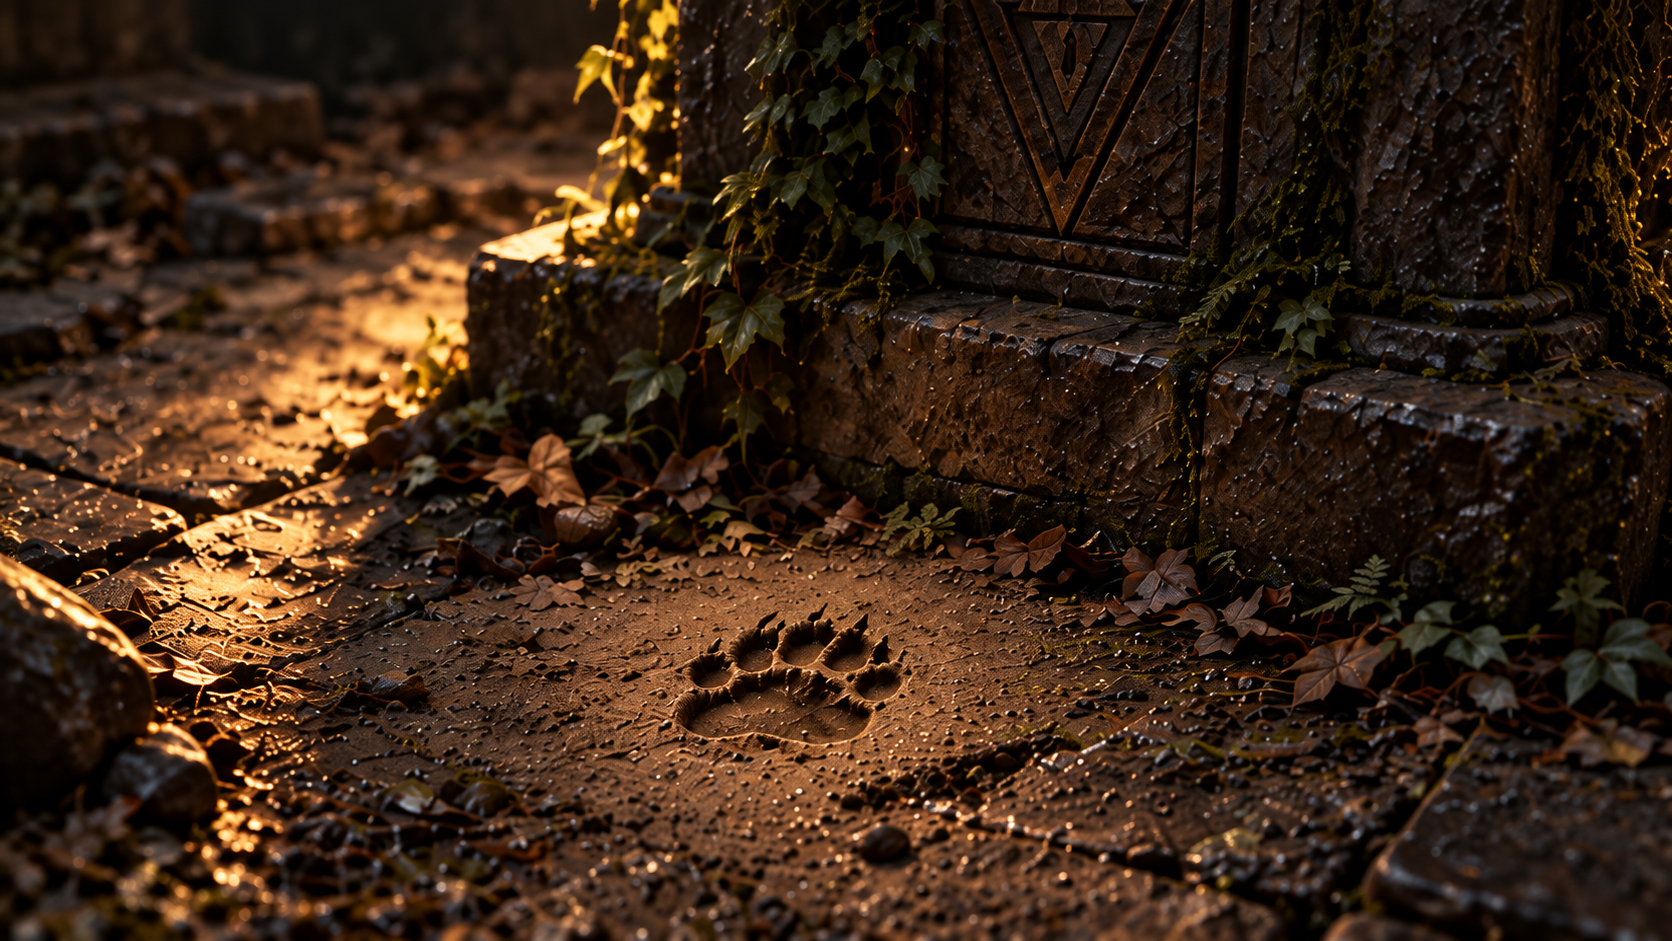
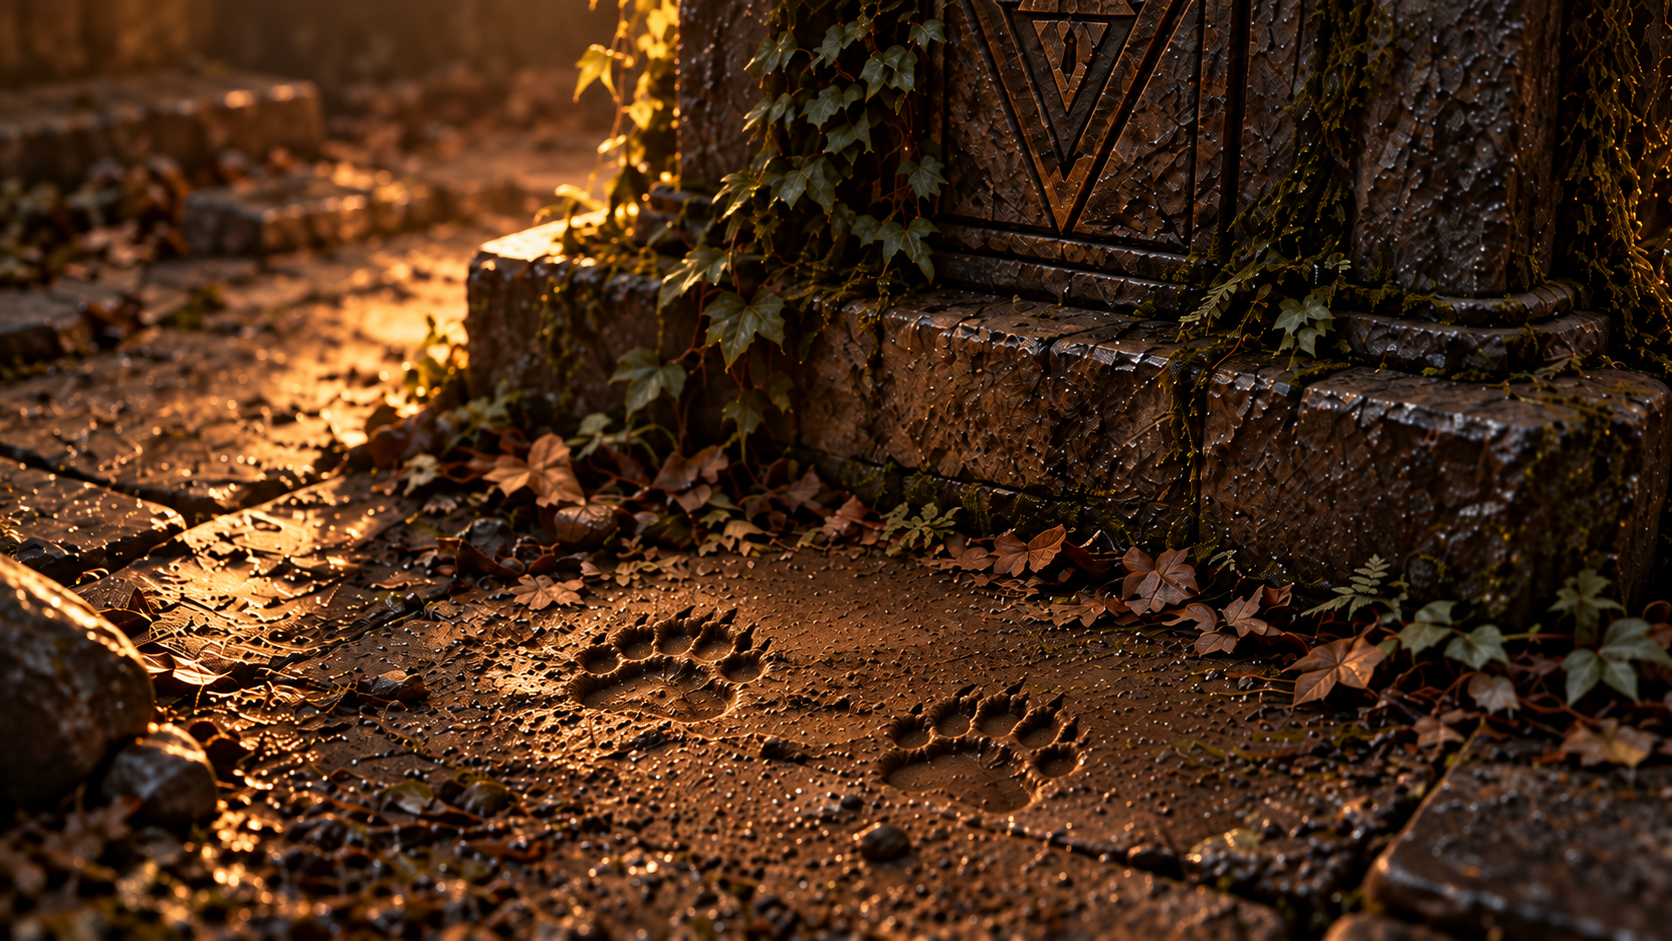
feat(chapter1): fix scene flow

diff --git a/src/data/story/first-chapter.ts b/src/data/story/first-chapter.ts
@@ -62,10 +62,10 @@ export const firstChapter: ChapterData = {
 
     {
       id: "chapter1-footprints-2",
-      background: images.track,
+      background: images.forestTraces,
       content: {
         type: "text",
-        text: "Это след.\n\nНебольшой, глубокий, с пятью пальцами.\n\nОпределённо не человеческий.",
+        text: "Это следы.\n\nНебольшие, глубокие, с пятью пальцами.\n\nОпределённо не человеческие.",
       },
       audio: audio.forest,
       nextScene: "chapter1-footprints-3",
@@ -73,7 +73,7 @@ export const firstChapter: ChapterData = {
 
     {
       id: "chapter1-footprints-3",
-      background: images.track,
+      background: images.forestTraces,
       content: {
         type: "text",
         text: "Ты поднимаешь взгляд.\n\nВ нескольких метрах впереди — ещё один.\n\nИ ещё один, чуть дальше.\n\nКто-то прошёл здесь совсем недавно.\n\n🐾",
@@ -136,7 +136,7 @@ export const firstChapter: ChapterData = {
       background: images.wallWithTraces,
       content: {
         type: "text",
-        text: "А у подножия стены, в сырой земле, — теже самые следы.\n\nЗдесь они обрывается. Прямо у камня.",
+        text: "А у подножия стены ты видишь теже следы.\n\nЗдесь они обрывается.",
       },
       audio: audio.forest,
       actions: [
@@ -538,7 +538,7 @@ export const firstChapter: ChapterData = {
 
     {
       id: "chapter1-chase-3",
-      background: images.corridor,
+      background: images.corridorTracesFinal,
       content: {
         type: "text",
         text: "Ты бежишь напролом, ничего не видя перед собой.\n\nПлечом задеваешь стену — острый камень царапает кожу.",
@@ -577,7 +577,13 @@ export const firstChapter: ChapterData = {
         text: "Клочок пряжи тёплого рыжеватого цвета зацепился за острый край камня.\n\nТот, кто бежал здесь, задел его второпях.",
       },
       audio: audio.room,
-      nextScene: "chapter1-chase-7",
+      actions: [
+        {
+          id: "take-thread-torn",
+          label: "Take the thread",
+          nextScene: "chapter1-chase-7",
+        },
+      ],
     },
 
     {
@@ -663,13 +669,19 @@ export const firstChapter: ChapterData = {
 
     {
       id: "chapter1-wait-7",
-      background: images.yarnWall,
+      background: images.yarn,
       content: {
         type: "text",
         text: "Ты поднимаешь пряжу и идёшь дальше по коридору.",
       },
       audio: audio.room,
-      nextScene: "chapter1-wait-8",
+      actions: [
+        {
+          id: "take-thread-torn",
+          label: "Take the thread",
+          nextScene: "chapter1-wait-8",
+        },
+      ],
     },
 
     {

diff --git a/src/store/game-store.ts b/src/store/game-store.ts
@@ -17,9 +17,9 @@ interface GameState {
 
 export const useGameStore = create<GameState>((set) => ({
   // currentSceneId: "chapter1-forest",
-  // currentSceneId: "chapter1-door",
+  currentSceneId: "chapter1-door",
   // currentSceneId: "chapter1-signs",
-  currentSceneId: "chapter1-stone-4",
+  // currentSceneId: "chapter1-stone-4",
 
   inventory: [],
 

diff --git a/src/data/images/chapter1.ts b/src/data/images/chapter1.ts
@@ -1,6 +1,6 @@
 export const images = {
   forest: "/images/chapter1/forest.png",
-  track: "/images/chapter1/track.png",
+  forestTraces: "/images/chapter1/forest-traces.png",
   wall: "/images/chapter1/wall.png",
   wallWithSymbols: "/images/chapter1/wall-with-symbols.png",
   wallWithTraces: "/images/chapter1/wall-with-traces.png",
